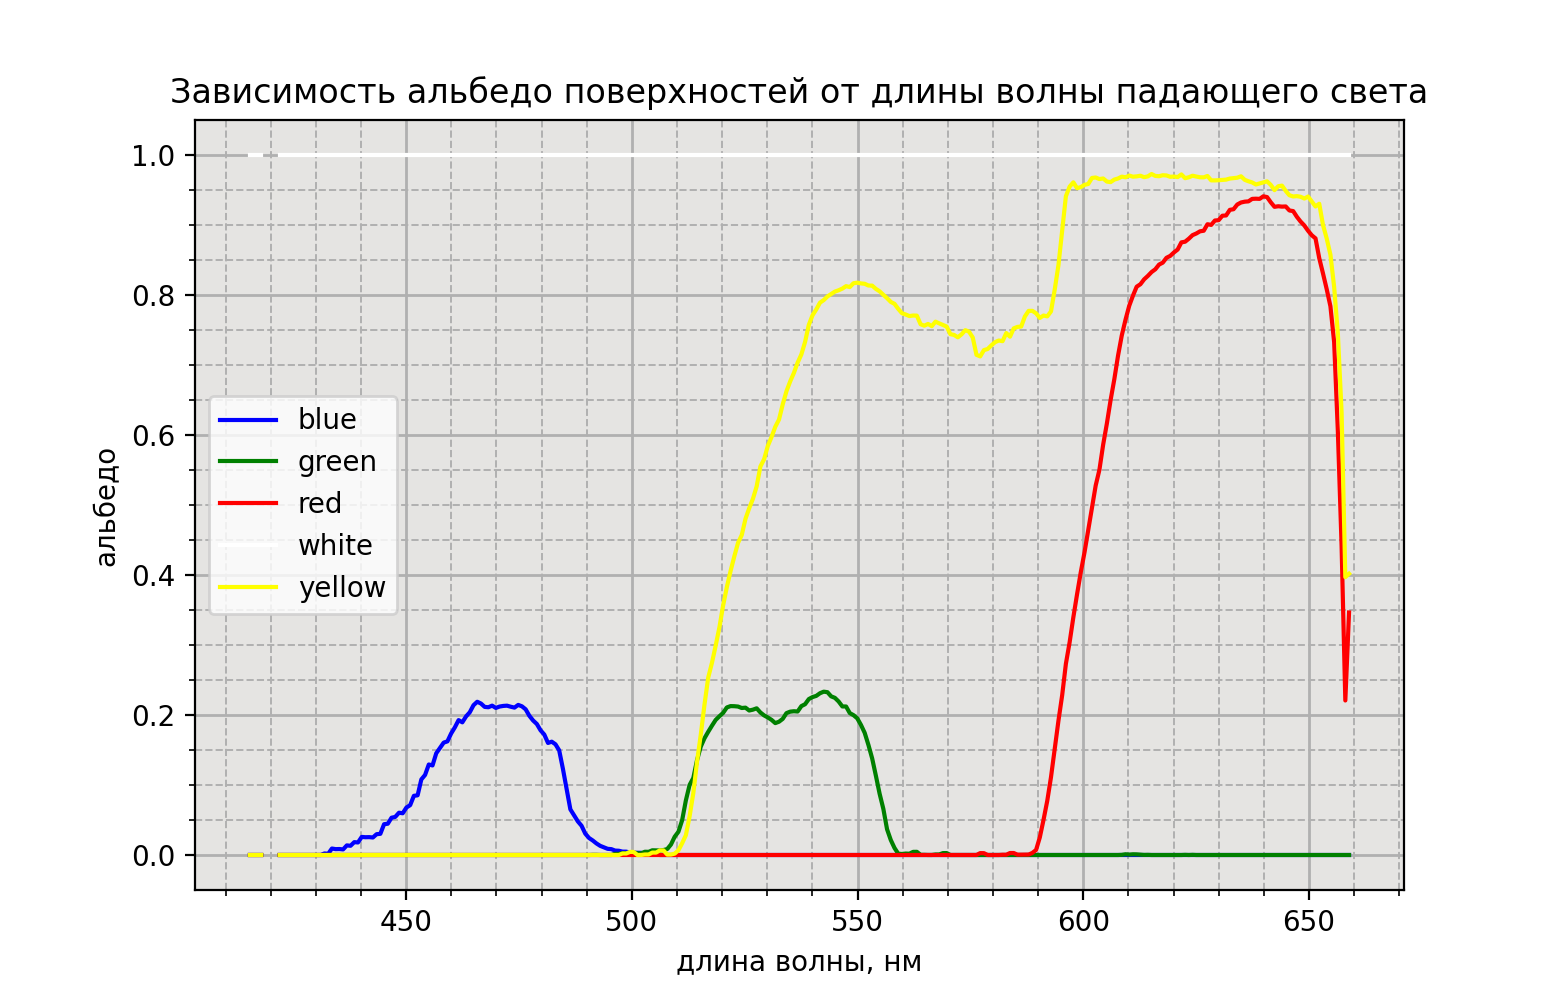
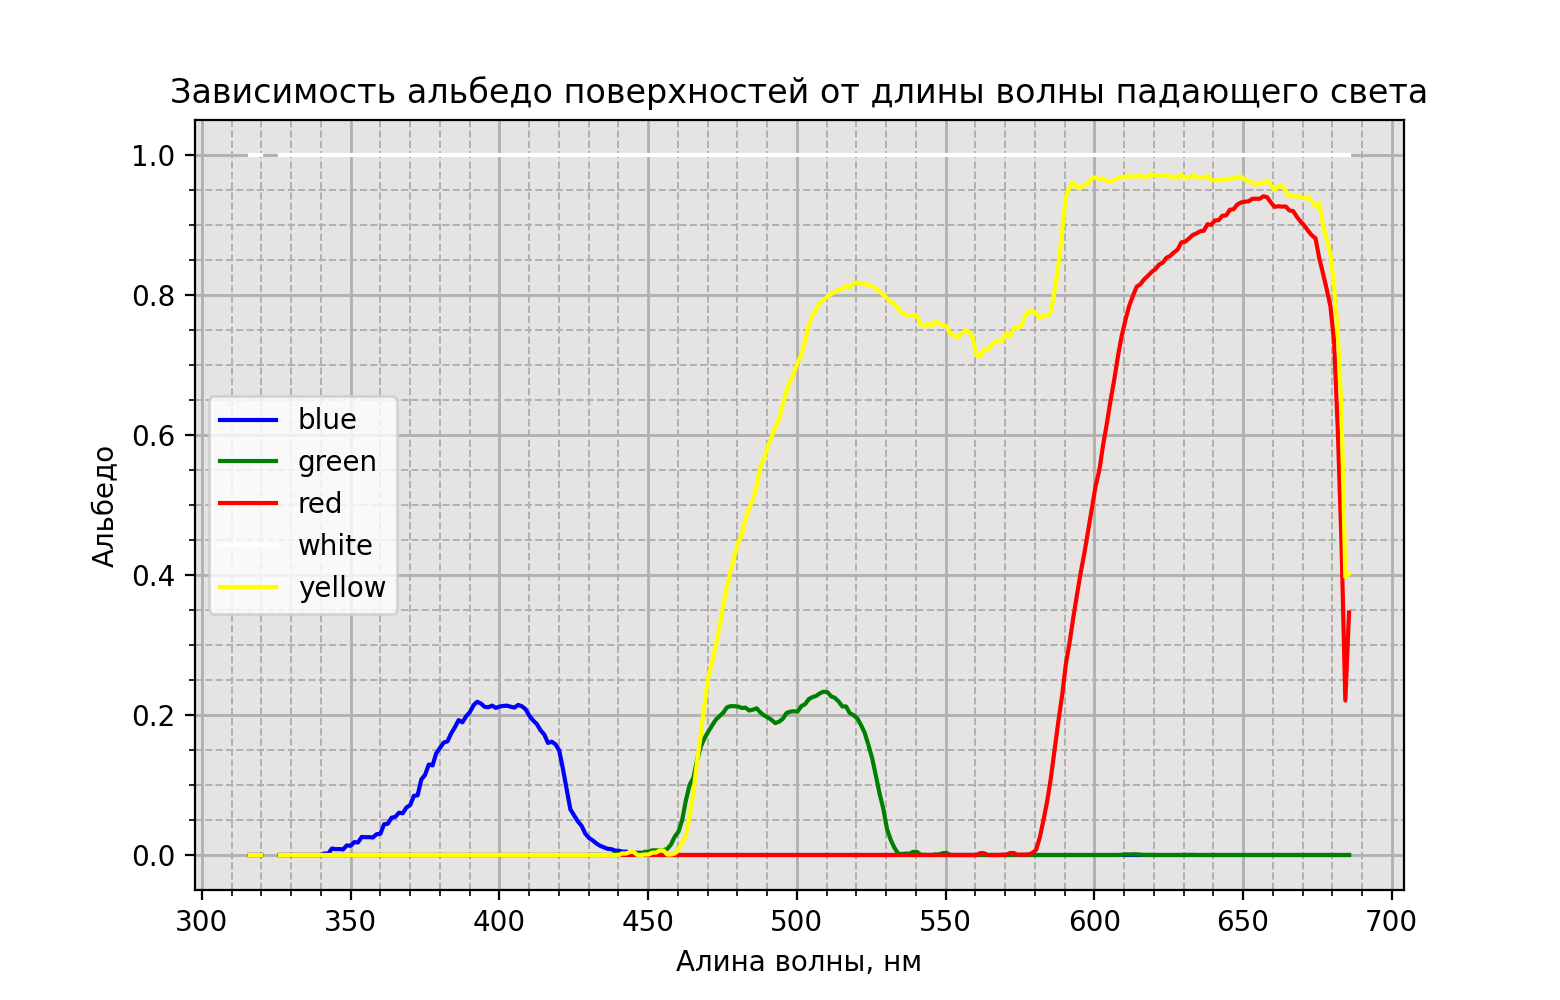
calibration 2.0

diff --git a/light/37/measure.py b/light/37/measure.py
@@ -21,17 +21,18 @@ I5 = I5[:352]
 # b = [i[2] for i in rgb]
 # r_max, b_max = max(r), max(b)
 # i_r, i_b = r.index(r_max), b.index(b_max)
-green = [i[1] for i in rgb]
-blue = [i[2] for i in rgb]
-i_green = green.index(max(green))
-i_blue = blue.index(max(blue))
+
+luma = 0.2989 * rgb[:, 0] + 0.5866 * rgb[:, 1] + 0.1144 * rgb[:, 2]
+print(list(luma).index(max(luma[:180])))
+print(list(luma).index(max(luma[250:])))
+
 
 # калибровка
 # a = (546.074 - 435.83)/(i_green - i_blue)
 # b = 546.074 - a*i_green
 
-a = 0.823
-b = 369.19
+a = 1.249
+b = 245.991
 
 
 # построение графиков

diff --git a/light/37/калибровка.py b/light/37/калибровка.py
@@ -3,8 +3,8 @@ import numpy as np
 
 
 # получение коэффициентов калибровки
-x = [81, 215]
-y = [435.83, 546.074]
+x = [152, 265]
+y = [435.83, 576.96]
 coefs = np.polyfit(x,y,1)
 p = np.poly1d(coefs)
 print(coefs)
